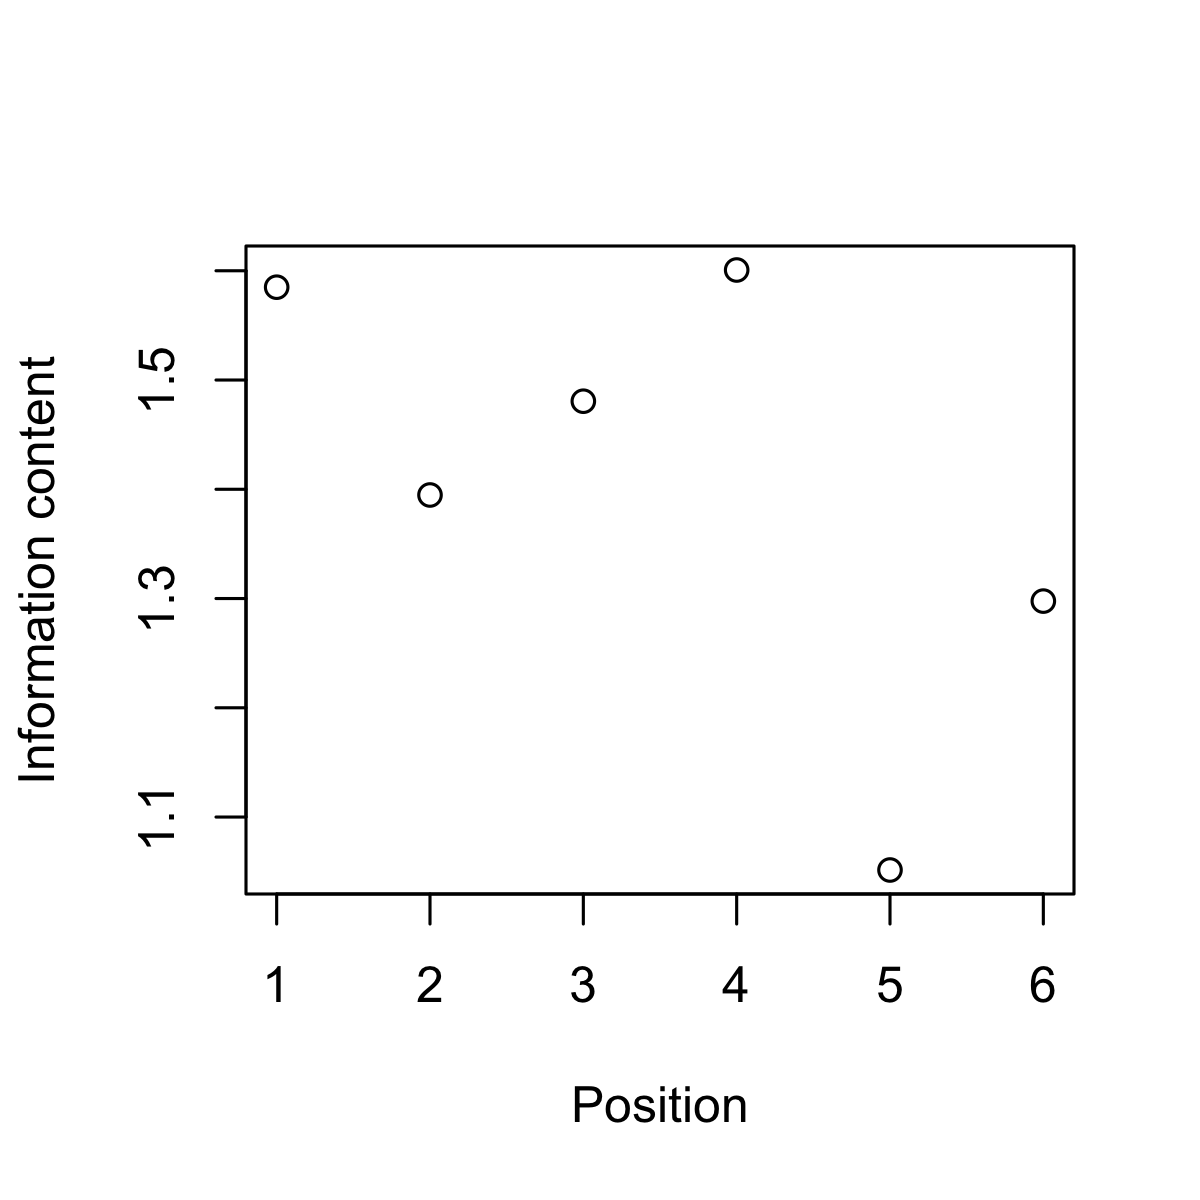
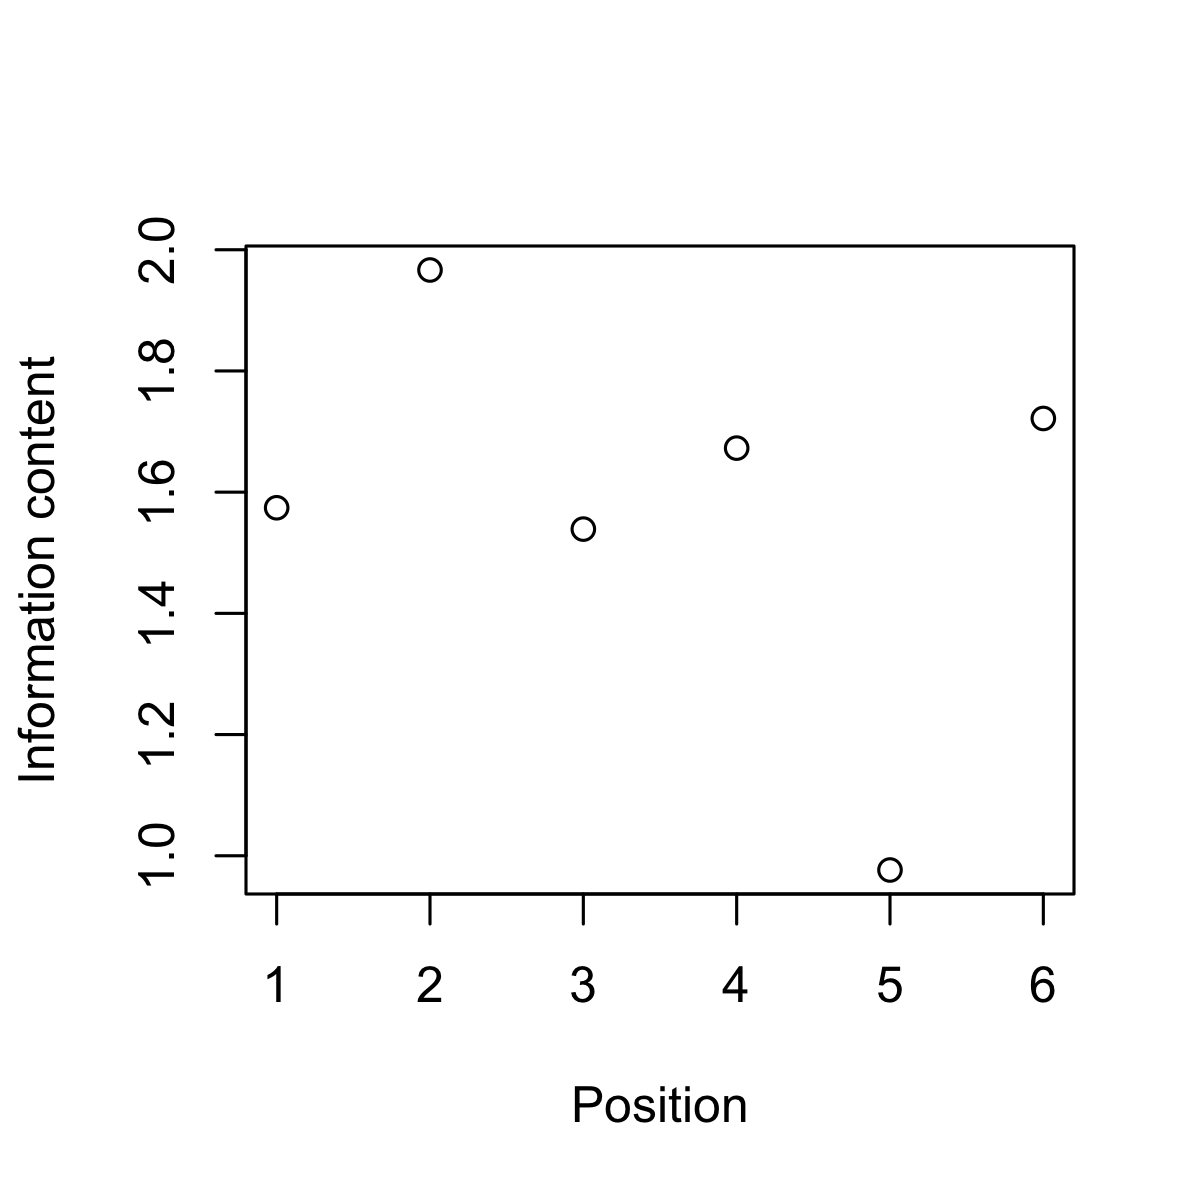
Setting random seed in README

diff --git a/README.md b/README.md
@@ -50,6 +50,7 @@ plot(seq$pos, res$information_content,
 ### PPM-Decay
 
 ``` r
+set.seed(1)
 mod_2 <- new_ppm_decay(alphabet_size = 3)
 res_2 <- model_seq(mod_2, seq$val, time = seq$time,
                    return_distribution = FALSE)
